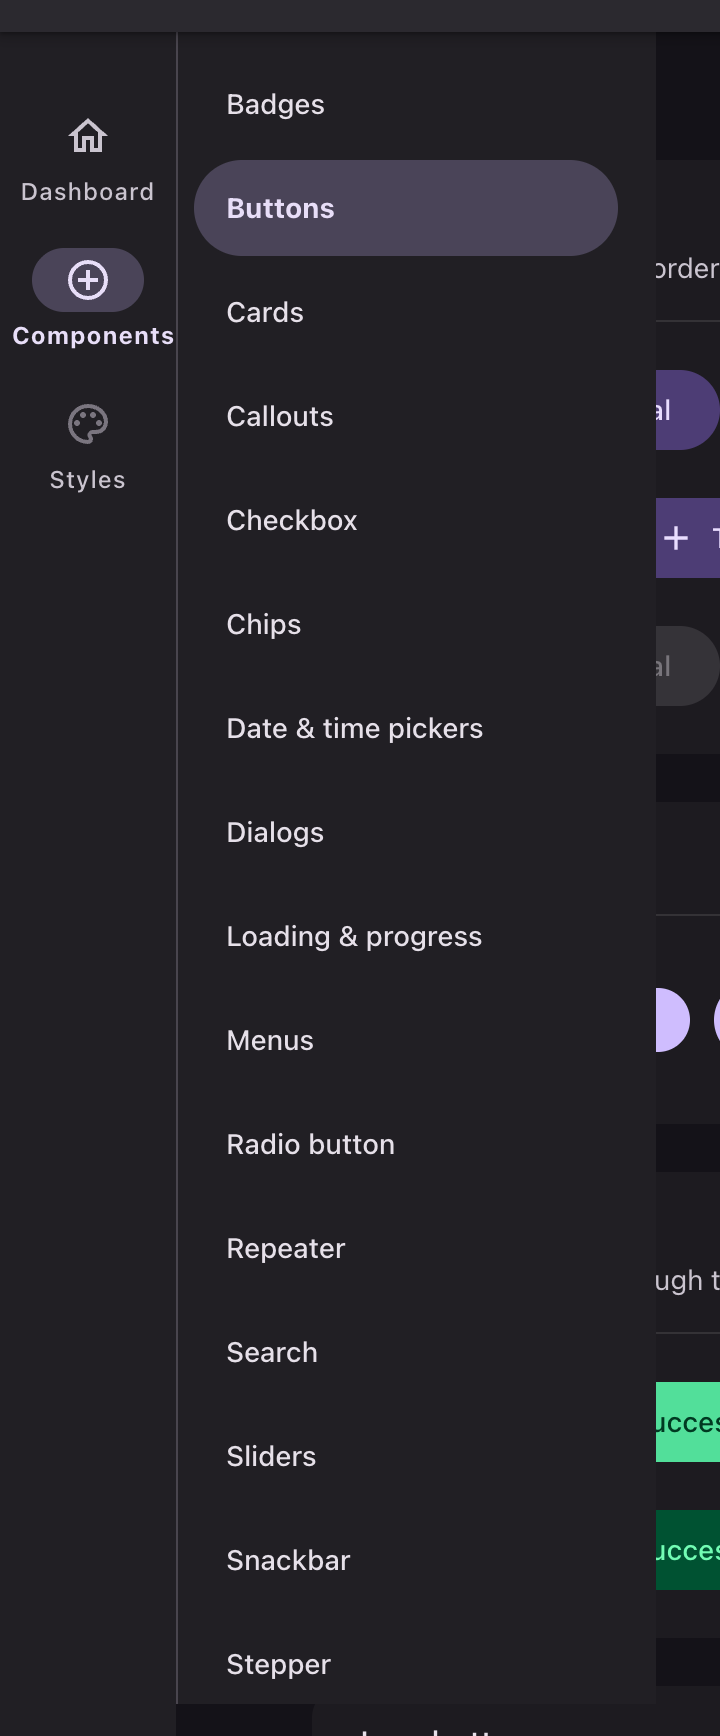
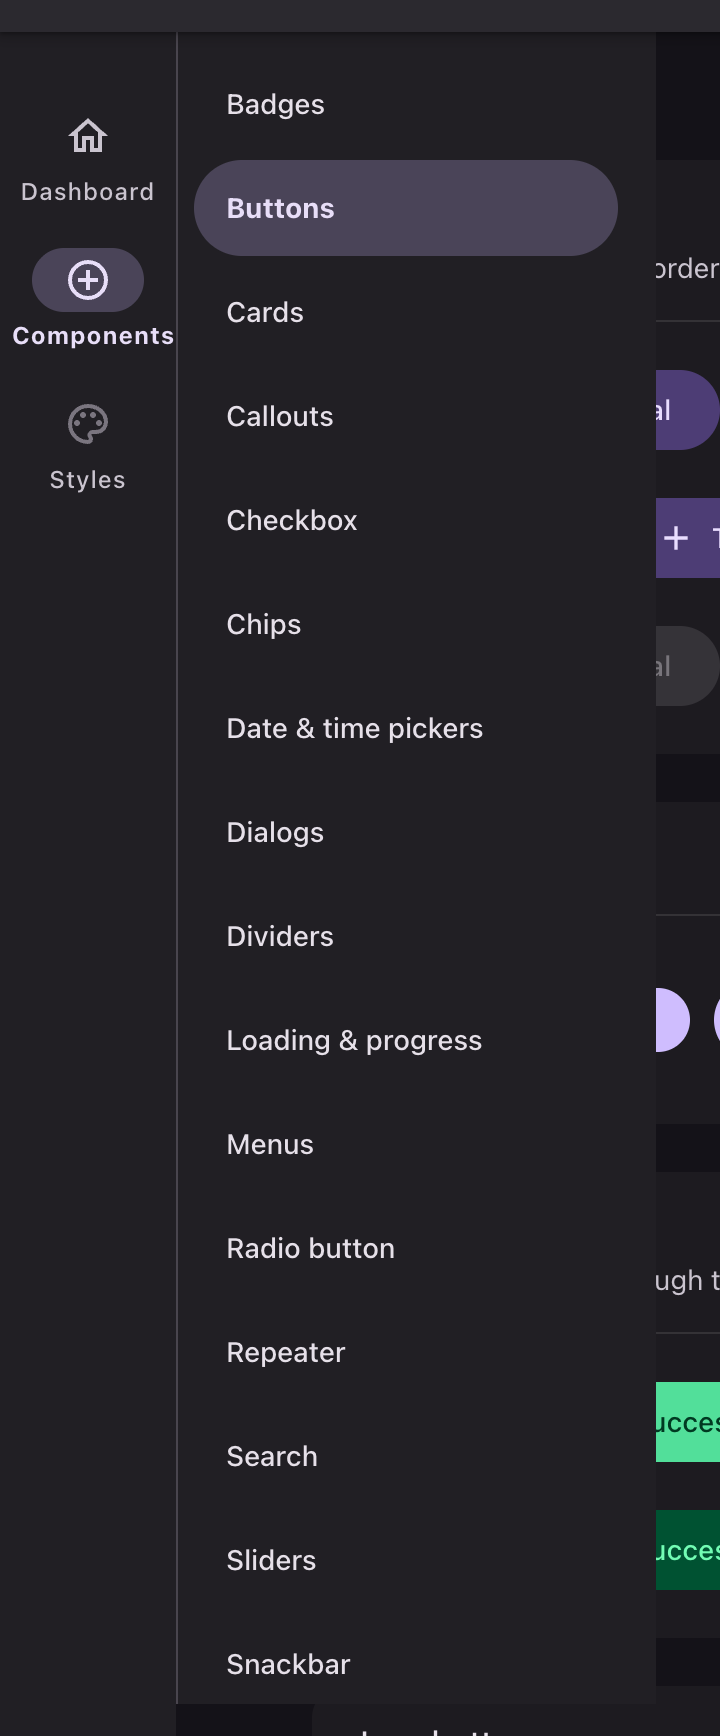
docs: document split buttons, fab menus and the divider

diff --git a/docs-assets/screenshots/schema.js b/docs-assets/screenshots/schema.js
@@ -135,6 +135,50 @@ export default {
         selector: '.shot-buttons-grouped',
         tight: true,
     },
+    'buttons/split': {
+        url: 'components/buttons',
+        selector: '.shot-buttons-split',
+        tight: true,
+    },
+    /* Framed on the one button whose menu is open, since the panel covers the two
+       beside it. */
+    'buttons/split-open': {
+        url: 'components/buttons',
+        selector: ['.shot-buttons-split .fi-btn-group', '.shot-buttons-split .fi-dropdown-panel'],
+        padding: 4,
+        before: (page) => openDropdown(
+            page,
+            '.shot-buttons-split .md-split-button-menu',
+            '.shot-buttons-split .fi-dropdown-panel',
+        ),
+    },
+    'buttons/fab-menu': {
+        url: 'components/buttons',
+        selector: '.shot-buttons-fab-menu',
+        tight: true,
+    },
+    'buttons/fab-menu-open': {
+        url: 'components/buttons',
+        selector: '.shot-buttons-fab-menu',
+        tight: true,
+        before: (page) => openDropdown(
+            page,
+            '.shot-buttons-fab-menu .md-fab',
+            '.shot-buttons-fab-menu .fi-dropdown-panel',
+        ),
+    },
+
+    /* The three lengths only read against each other, and against the text they
+       divide, so they are framed as one column rather than one rule at a time. */
+    'dividers/variants': {
+        url: 'components/dividers',
+        selector: [
+            '.shot-divider-full-width',
+            '.shot-dividers-first',
+            '.shot-dividers-last',
+        ],
+        padding: 24,
+    },
 
     'cards/default': {
         url: 'components/cards',

diff --git a/docs-assets/screenshots/script.js b/docs-assets/screenshots/script.js
@@ -21,6 +21,9 @@ const EMAIL = process.env.AUTH_EMAIL ?? 'saade@saade.dev'
 const PASSWORD = process.env.AUTH_PASSWORD ?? 'Fil@ment1sTh3Go@t!'
 
 const THEMES = ['light', 'dark']
+
+/* Narrows the run to the entries whose name matches, for iterating on one image. */
+const ONLY = process.env.ONLY ? new RegExp(process.env.ONLY) : null
 const VIEWPORT = { width: 1440, height: 900, deviceScaleFactor: 2 }
 
 /* Overridable per entry, for a control that sits closer than this to its own label. */
@@ -106,12 +109,14 @@ async function clipFor(page, selector, tight, padding) {
     }, selector, tight, padding)
 }
 
-const byUrl = Object.entries(schema).reduce((groups, [file, options]) => {
-    groups[options.url] ??= []
-    groups[options.url].push([file, options])
+const byUrl = Object.entries(schema)
+    .filter(([file]) => ! ONLY || ONLY.test(file))
+    .reduce((groups, [file, options]) => {
+        groups[options.url] ??= []
+        groups[options.url].push([file, options])
 
-    return groups
-}, {})
+        return groups
+    }, {})
 
 const browser = await puppeteer.launch({ acceptInsecureCerts: true })
 let count = 0

diff --git a/docs/.vitepress/config.ts b/docs/.vitepress/config.ts
@@ -47,6 +47,7 @@ export default defineConfig({
                     { text: 'Tabs', link: '/schemas/tabs' },
                     { text: 'Wizard', link: '/schemas/wizard' },
                     { text: 'Callout', link: '/schemas/callout' },
+                    { text: 'Divider', link: '/schemas/divider' },
                 ],
             },
             {

diff --git a/docs/actions/grouping.md b/docs/actions/grouping.md
@@ -27,8 +27,82 @@ button. Either takes every [button](/actions/buttons) variant:
 ActionGroup::make([/* ... */])->label('Menu')->button()->tonal();
 ```
 
-## Where else this appears
+## Split button
 
-The same sheet renders Filament's dropdown, the [select](/forms/select) listbox, a
-[color picker](/forms/color-picker) and [date picker](/forms/date-time-picker) panel, the table's
-column manager, [table filters](/tables/filters) and the global search results.
+An action with a menu of related ones beside it. `splitButton()` takes the first action in the
+group as the leading half and folds the rest into the trailing one:
+
+<Shot name="buttons/split" alt="Filled, tonal and outlined split buttons, each a labeled button beside a smaller one carrying a caret" />
+
+```php
+ActionGroup::make([
+    Action::make('save')->label('Save'),
+    Action::make('saveAndClose')->label('Save and close'),
+    Action::make('saveAsDraft')->label('Save as draft'),
+])
+    ->filledButton()
+    ->splitButton();
+```
+
+It joins `button()` and `iconButton()` as a way of saying how the group renders, so there is no
+separate leading action to pass.
+
+<Shot name="buttons/split-open" alt="A split button with its menu open, the trailing half fully rounded" />
+
+The inner corners open up under the pointer, and the trailing half goes fully round while its menu
+is showing.
+
+Both halves are styled together. A variant, a color or an outline given to the group reaches each
+of them:
+
+```php
+ActionGroup::make([/* ... */])->tonal()->color('danger')->splitButton();
+```
+
+Given to the leading action instead, the trailing half follows it, so either place works:
+
+```php
+ActionGroup::make([
+    Action::make('save')->label('Save')->tonal()->color('danger'),
+    Action::make('saveAndClose')->label('Save and close'),
+])->splitButton();
+```
+
+## FAB menu
+
+A floating action button that opens the actions belonging to it.
+
+<Shot name="buttons/fab-menu" alt="A floating action button with a plus icon" />
+
+```php
+ActionGroup::make([
+    Action::make('note')->label('New note')->icon(Heroicon::OutlinedPencilSquare),
+    Action::make('reminder')->label('New reminder')->icon(Heroicon::OutlinedClock),
+    Action::make('list')->label('New list')->icon(Heroicon::OutlinedListBullet),
+])
+    ->icon(Heroicon::OutlinedPlus)
+    ->fabMenu();
+```
+
+The trigger is a FAB, so the icon on the group is the one it carries; without one it falls back to
+Filament's own.
+
+<Shot name="buttons/fab-menu-open" alt="The same button open, showing three labeled pills stacked above it and a close icon in place of the plus" />
+
+Open, the actions stand as separate buttons rather than rows of a menu, and the FAB carries a cross
+until it closes again. The menu opens upward, which is the direction available to a button that
+floats over the page; `dropdownPlacement()` afterwards overrides it.
+
+```php
+ActionGroup::make([/* ... */])->fabMenu()->dropdownPlacement('bottom-start');
+```
+
+## API
+
+| Method | Result |
+| --- | --- |
+| `splitButton()` | The first action beside a button holding the rest |
+| `fabMenu()` | A FAB opening its actions as separate buttons |
+
+Both are registered on `Filament\Actions\ActionGroup`, which also takes every
+[button](/actions/buttons) variant.

diff --git a/docs/reference/api.md b/docs/reference/api.md
@@ -21,6 +21,14 @@ button variants, and every form field takes the field ones.
 | `variant(ButtonVariant\|string)` | Any button variant by name | [Buttons](/actions/buttons) |
 | `bottomSheet(bool\|Closure = true)` | Bottom sheet, turning on `slideOver()` too | [Modals](/actions/modals) |
 
+Every one of those is registered on `Filament\Actions\ActionGroup` too, since a group renders as a
+button, and it takes two of its own:
+
+| Method | Result | See |
+| --- | --- | --- |
+| `splitButton()` | Leading action beside a menu of the rest | [Grouping](/actions/grouping#split-button) |
+| `fabMenu()` | FAB opening its actions as separate buttons | [Grouping](/actions/grouping#fab-menu) |
+
 Applied without being called: any action where `isOutlined()` is true gets the outlined treatment,
 which is what makes an outlined icon button work, since Filament drops the flag when it renders
 one.
@@ -83,6 +91,17 @@ relying on it:
 `Section` they mean the section, and on an `Action` they mean the button. Each resolves to the closest
 registration, so the call reads the same wherever it appears.
 
+## Components
+
+`Saade\FilamentMaterialTheme\Schemas\Components\Divider`, the one component the theme adds rather
+than restyles.
+
+| Method | Result | See |
+| --- | --- | --- |
+| `inset()` | Indented at the leading edge | [Divider](/schemas/divider) |
+| `middleInset()` | Indented at both | [Divider](/schemas/divider) |
+| `variant(DividerVariant\|string\|Closure)` | Any of the three by name | [Divider](/schemas/divider) |
+
 ## Enums
 
 `Saade\FilamentMaterialTheme\Enums`
@@ -94,6 +113,7 @@ registration, so the call reads the same wherever it appears.
 | `ChipVariant` | `Filled`, `Outlined`, `Elevated` |
 | `FieldVariant` | `Filled`, `Outlined`, `Search` |
 | `TabsVariant` | `Primary`, `Secondary` |
+| `DividerVariant` | `FullWidth`, `Inset`, `MiddleInset` |
 
 Every one is a backed string enum, and every `variant()` takes either the case or its value.
 `ButtonVariant::Outlined` and `ButtonVariant::Text` resolve to Filament's own `outlined()` and

diff --git a/docs/schemas/divider.md b/docs/schemas/divider.md
@@ -1,0 +1,59 @@
+# Divider
+
+A rule that separates content inside a schema. Filament has no component for one, so the theme
+ships it:
+
+<Shot name="dividers/variants" alt="Three dividers between lines of text: one edge to edge, one indented at the leading edge, one indented at both" />
+
+```php
+use Saade\FilamentMaterialTheme\Schemas\Components\Divider;
+
+Divider::make();
+```
+
+## Variants
+
+The three differ only in where the rule starts and ends.
+
+| Variant | Modifier |
+| --- | --- |
+| Full width | the default |
+| Inset | `->inset()` |
+| Middle inset | `->middleInset()` |
+
+```php
+Divider::make();                 // edge to edge
+Divider::make()->inset();        // indented at the leading edge
+Divider::make()->middleInset();  // indented at both
+```
+
+An inset divider lines up with the text of the list it divides, rather than with the container.
+
+`variant()` takes the same set by name, for when the variant is data:
+
+```php
+use Saade\FilamentMaterialTheme\Enums\DividerVariant;
+
+Divider::make()->variant(DividerVariant::Inset);
+Divider::make()->variant('inset');
+```
+
+| Case | Value |
+| --- | --- |
+| `DividerVariant::FullWidth` | `full-width` |
+| `DividerVariant::Inset` | `inset` |
+| `DividerVariant::MiddleInset` | `middle-inset` |
+
+## API
+
+| Method | Result |
+| --- | --- |
+| `inset()` | Indents the rule at the leading edge |
+| `middleInset()` | Indents it at both |
+| `variant(DividerVariant\|string\|Closure)` | Any of the three by name |
+| `getVariant()` | The resolved `DividerVariant` |
+
+`variant()` takes a closure as well, evaluated when the schema renders.
+
+A divider spans the whole row, since a rule that stops at a column edge is a border. Everything else
+a schema component takes applies as usual, `visible()` and `extraAttributes()` included.

diff --git a/docs/actions/buttons.md b/docs/actions/buttons.md
@@ -134,20 +134,21 @@ Action::make('compose')
     ->color('info');
 ```
 
-`extendedFab()` renders as a labelled button, so it needs both an `icon()` and a `label()`.
+`extendedFab()` renders as a labeled button, so it needs both an `icon()` and a `label()`.
 
 ## API
 
 | Method | On | Result |
 | --- | --- | --- |
-| `filledButton()` | `Action` | Filled |
-| `tonal()` | `Action` | Filled tonal |
-| `elevated()` | `Action` | Elevated |
-| `fab()` | `Action` | FAB, rendered as an icon button |
-| `extendedFab()` | `Action` | Extended FAB, rendered as a labelled button |
-| `variant(ButtonVariant\|string)` | `Action` | Any of the above by name |
+| `filledButton()` | `Action`, `ActionGroup` | Filled |
+| `tonal()` | `Action`, `ActionGroup` | Filled tonal |
+| `elevated()` | `Action`, `ActionGroup` | Elevated |
+| `fab()` | `Action`, `ActionGroup` | FAB, rendered as an icon button |
+| `extendedFab()` | `Action`, `ActionGroup` | Extended FAB, rendered as a labeled button |
+| `variant(ButtonVariant\|string)` | `Action`, `ActionGroup` | Any of the above by name |
 
-Registered on the base `Action`, so `CreateAction`, `EditAction` and the rest all inherit them.
+Registered on the base `Action`, so `CreateAction`, `EditAction` and the rest all inherit them. An
+[`ActionGroup`](/actions/grouping) takes the same set, since a group renders as a button too.
 
 `md-outlined` is applied without being called to any action where `isOutlined()` is true, which is
 what makes an outlined icon button work.

diff --git a/README.md b/README.md
@@ -33,6 +33,12 @@ be serving before the script runs. Point it elsewhere with environment variables
 BASE_URL=https://example.test/admin AUTH_EMAIL=you@example.com AUTH_PASSWORD=secret npm run screenshots
 ```
 
+`ONLY` narrows the run to the entries whose name matches, for iterating on one image:
+
+```bash
+ONLY='buttons/fab' npm run screenshots
+```
+
 Images are written to `docs/public/screenshots/{light,dark}/` and committed, because the panel
 they come from is not reachable from CI.
 
